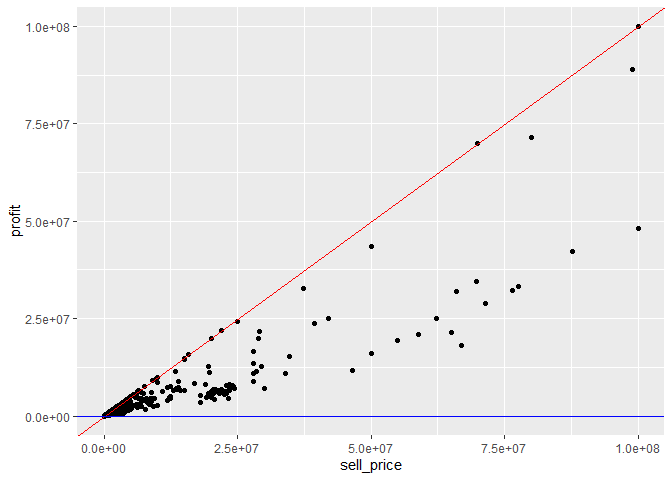
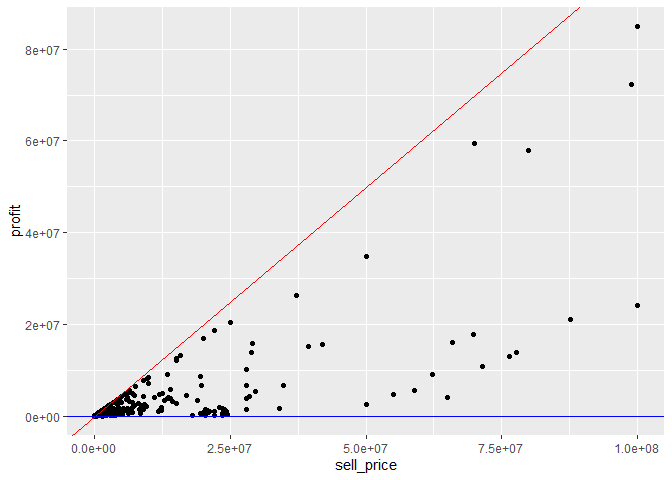
Reined results

diff --git a/R-Script/investments.md b/R-Script/investments.md
@@ -1,11 +1,11 @@
 Investment Oportunities
 ================
 
-##### This documents outlines the process of cleaning, agrigating, and analysing the Guild Wars 2 trading post data, taken from the Gw2 API (stored in local SQLite database). By the end of the document, we will have a list of all viable investment oportunities for flipping items on the Guild Wars 2 Trading Post.
+#### This documents outlines the process of cleaning, agrigating, and analysing the Guild Wars 2 trading post data, taken from the Gw2 API (stored in local SQLite database). By the end of the document, we will have a list of all viable investment oportunities for flipping items on the Guild Wars 2 Trading Post.
 
-### Data Retrieval
+## Data Retrieval
 
-###### In this section, we connect to the database and query the necessary raw data. We retrieve the items’ information, including their names and values, as well as the price data, which includes buy and sell prices and quantities.
+##### In this section, we connect to the database and query the necessary raw data. We retrieve the items’ information, including their names and values, as well as the price data, which includes buy and sell prices and quantities.
 
 ``` r
 # Connect to the database
@@ -22,9 +22,9 @@ prices <- dbGetQuery(con, query)
 dbDisconnect(con)
 ```
 
-### Data Transformation
+## Data Transformation
 
-###### In this section, we merge the items and prices data to create the `item_data` dataframe. We handle missing values, replacing them with appropriate values. Then, we calculate the profit for flipping each item based on buy and sell prices.
+##### In this section, we merge the items and prices data to create the `item_data` dataframe. We handle missing values, replacing them with appropriate values. Then, we calculate the profit for flipping each item based on buy and sell prices.
 
 ``` r
 # Define item_data dataframe
@@ -53,8 +53,8 @@ item_data$buy_quantity[is.na(item_data$buy_quantity)] <- 0
 item_data <- subset(item_data, select = -value)
 
 # Add flipping profit column
-item_data$profit <- item_data$sell_price-1 -
-  ceiling((item_data$buy_price+1) * 0.85)
+item_data$profit <- ceiling((item_data$sell_price-1) * 0.85) -
+  item_data$buy_price - 1
 ```
 
     ## Rows: 27,143
@@ -65,11 +65,11 @@ item_data$profit <- item_data$sell_price-1 -
     ## $ buy_quantity  <dbl> 122, 1010, 228, 1509, 1, 2, 10, 235, 12, 1, 24, 294, 4, …
     ## $ sell_price    <int> 230, 97, 58, 44, 87, 99000, 2819, 1185, 1740, 103705, 35…
     ## $ sell_quantity <dbl> 1, 2, 2, 5, 2, 7, 1, 1, 2, 1, 1, 1, 1, 1, 2, 1, 6, 3, 1,…
-    ## $ profit        <dbl> 72, 24, 28, 17, 56, 71192, 1188, 1032, 668, 66519, 18, 5…
+    ## $ profit        <dbl> 11, -2, 16, 7, 39, 51437, 479, 829, 220, 44403, 11, 27, …
 
-### Identifying Investment Opportunities
+## Identifying Investment Opportunities
 
-###### In this section, we filter the `item_data` dataframe to select items that are profitable, considering the sell and buy quantities. If multiple items have the same sell price, we choose the one with the highest profit. We then plot the data points to visualize the relationship between sell price and profit, with a reference line indicating the maximum profit (red) and profit loss (blue).
+##### In this section, we filter the `item_data` dataframe to select items that are profitable, considering the sell and buy quantities. If multiple items have the same sell price, we choose the one with the highest profit. We then plot the data points to visualize the relationship between sell price and profit, with a reference line indicating the maximum profit (red) and profit loss (blue).
 
 ![](investments_files/figure-gfm/chart%200-1.png)<!-- -->
 
@@ -86,9 +86,9 @@ investments <- item_data %>%
 
 ![](investments_files/figure-gfm/chart%201-1.png)<!-- -->
 
-### Refining Investment Opportunities
+## Refining Investment Opportunities
 
-###### In this section, we all items in `investments`. We use a reference line to indicate the threshold at which items will instantly sell or buy (red). Then, we further refine the investment opportunities by filtering out items that have a sell price exceeding twice the buy price, with a reference line indicating 2x buy value (blue).
+##### In this section, we all items in `investments`. We use a reference line to indicate the threshold at which items will instantly sell or buy (red). Then, we further refine the investment opportunities by filtering out items that have a sell price exceeding twice the buy price, with a reference line indicating 2x buy value (blue).
 
 ![](investments_files/figure-gfm/chart%202-1.png)<!-- -->
 
@@ -101,44 +101,44 @@ investments <- investments %>%
 
 ![](investments_files/figure-gfm/chart%203-1.png)<!-- -->
 
-### Finalizing Investment Opportunities
+## Finalizing Investment Opportunities
 
-###### In this section, we further refine the investment opportunities by filtering out lower-profit items that have a profit more than 1 gold away from the maximum profit. We also remove items with a sell price higher than 100 gold. Finally, we plot the data to visualize the remaining investment opportunities and list the items sorted by their profit in descending order.
+##### In this section, we further refine the investment opportunities by filtering out lower-profit items that have a profit less than 30% of buy price. We also remove items with a buy price higher than 100 gold. Finally, we plot the data to visualize the remaining investment opportunities and list the items sorted by their profit in descending order.
+
+![](investments_files/figure-gfm/chart%203.5-1.png)<!-- -->
 
 ``` r
 # Refine investments
 investments <- investments %>%
-  # Filter out items more than 10000 away from maximum profit
-  filter(profit >= sell_price - 10000) %>%
-  # Filter out lower profit items
-  filter(profit > 10000, sell_price < 1000000)
+  # Filter out items with profit less than 50% of buy price
+  filter(profit >= buy_price * 0.5) %>%
+  # Filter out lower profit and high cost items
+  filter(profit > 10000, buy_price < 1000000)
 ```
 
 ![](investments_files/figure-gfm/chart%204-1.png)<!-- -->
 
-## Conclusion
+# Conclusion
 
-##### We have our results! All of these items you should purchase and list at the recommended prices. Keep in mind that there is no garentee that all of the items will sell or be purchased as the market tends to flucuate. I am working on creating a historical database to calculate a fullfilment probability percentage.
+#### We have our results! All of these items you should purchase and list at the recommended prices. Keep in mind that there is no garentee that all of the items will sell or be purchased as the market tends to flucuate. I am working on creating a historical database to calculate a fullfilment probability percentage.
 
-    ## Thesis on Learned Malice  |  buy: 9264 - sell: 17896 - profit: 10019 
-    ## Recipe: Harrier's Warbeast Tassets  |  buy: 10003 - sell: 19064 - profit: 10559 
-    ## Mini Vigil Marksman  |  buy: 10548 - sell: 19400 - profit: 10432 
-    ## Bringer's Pearl Rod  |  buy: 10211 - sell: 19500 - profit: 10818 
-    ## Sunstone Gold Ring  |  buy: 10219 - sell: 19579 - profit: 10891 
-    ## Recipe: Harrier's Warbeast Leggings  |  buy: 9901 - sell: 19678 - profit: 11260 
-    ## Thesis on Basic Speed  |  buy: 10022 - sell: 19846 - profit: 11325 
-    ## Berserker's Soft Wood Warhorn of Rage  |  buy: 11358 - sell: 19959 - profit: 10302 
-    ## Berserker's Pearl Needler  |  buy: 11744 - sell: 19988 - profit: 10003 
-    ## Mini Kodan Icehammer  |  buy: 10640 - sell: 20080 - profit: 11034 
-    ## Mini Vigil Warmaster  |  buy: 11390 - sell: 20219 - profit: 10535 
-    ## Dire Emblazoned Pants  |  buy: 10304 - sell: 20297 - profit: 11536 
-    ## Rampager's Emblazoned Coat  |  buy: 11571 - sell: 20369 - profit: 10531 
-    ## Assassin's Pearl Reaver  |  buy: 10567 - sell: 20509 - profit: 11525 
-    ## Forged Bow  |  buy: 11283 - sell: 20867 - profit: 11274 
-    ## Bringer's Pearl Bludgeoner  |  buy: 10973 - sell: 20973 - profit: 11644 
-    ## Mini Holosmith Baraz Sharifi  |  buy: 11648 - sell: 21047 - profit: 11144 
-    ## Carrion Emblazoned Coat  |  buy: 11596 - sell: 21243 - profit: 11384 
-    ## Dire Emblazoned Coat  |  buy: 11046 - sell: 21488 - profit: 12097 
-    ## Old Reliable  |  buy: 11696 - sell: 21794 - profit: 11850 
-    ## Mini Toxic Hybrid  |  buy: 11114 - sell: 21977 - profit: 12528 
-    ## Rampager's Soft Wood Focus of Ice  |  buy: 11762 - sell: 22994 - profit: 12994
+    ## Polysaturating Reverberating Infusion (Purple)  |  sell:*189g90s12c* - buy:*95g0s28c* = profit:*66g41s31c*
+    ## Wall of the Mists  |  sell:*179g0s0c* - buy:*90g1s6c* = profit:*62g13s93c*
+    ## Polysaturating Reverberating Infusion (Red)  |  sell:*180g0s0c* - buy:*92g90s3c* = profit:*60g9s96c*
+    ## Mainsail of the Lion's Champion  |  sell:*157g99s99c* - buy:*79g32s21c* = profit:*54g97s77c*
+    ## Polysaturating Reverberating Infusion (Purple)  |  sell:*159g32s99c* - buy:*86g0s0c* = profit:*49g43s3c*
+    ## Unspoken Curse  |  sell:*154g54s54c* - buy:*82g62s13c* = profit:*48g74s22c*
+    ## Polysaturating Reverberating Infusion (Purple)  |  sell:*141g97s97c* - buy:*72g0s1c* = profit:*48g68s25c*
+    ## Mini Copper Skyscale Hatchling  |  sell:*139g99s98c* - buy:*70g50s2c* = profit:*48g49s95c*
+    ## Jormag's Needle  |  sell:*144g98s99c* - buy:*75g7s13c* = profit:*48g17s0c*
+    ## Mini Silver Jackal Pup  |  sell:*129g99s88c* - buy:*65g1s21c* = profit:*45g48s67c*
+    ## Might of the Lion's Champion  |  sell:*157g0s99c* - buy:*88g95s13c* = profit:*44g50s70c*
+    ## Polysaturating Reverberating Infusion (Red)  |  sell:*146g98s97c* - buy:*81g0s2c* = profit:*43g94s9c*
+    ## Kaiser Snake Warhorn Skin  |  sell:*149g58s45c* - buy:*84g2s37c* = profit:*43g12s30c*
+    ## Mini Green Tigris Cub  |  sell:*143g98s96c* - buy:*80g2s35c* = profit:*42g36s75c*
+    ## Bloodstone Sword Skin  |  sell:*125g12s69c* - buy:*64g12s76c* = profit:*42g23s1c*
+    ## Polysaturating Reverberating Infusion (Purple)  |  sell:*137g99s99c* - buy:*76g0s15c* = profit:*41g29s83c*
+    ## Boots of the Obsidian Path of the Cavalier  |  sell:*118g98s98c* - buy:*60g11s69c* = profit:*41g2s43c*
+    ## Recipe: Zehtuka's Guise  |  sell:*105g95s93c* - buy:*54g0s1c* = profit:*36g6s52c*
+    ## Recipe: Zehtuka's Pauldrons  |  sell:*99g98s87c* - buy:*51g0s3c* = profit:*33g99s0c*
+    ## Recipe: Zehtuka's Striders  |  sell:*95g55s55c* - buy:*48g0s6c* = profit:*33g22s14c*
